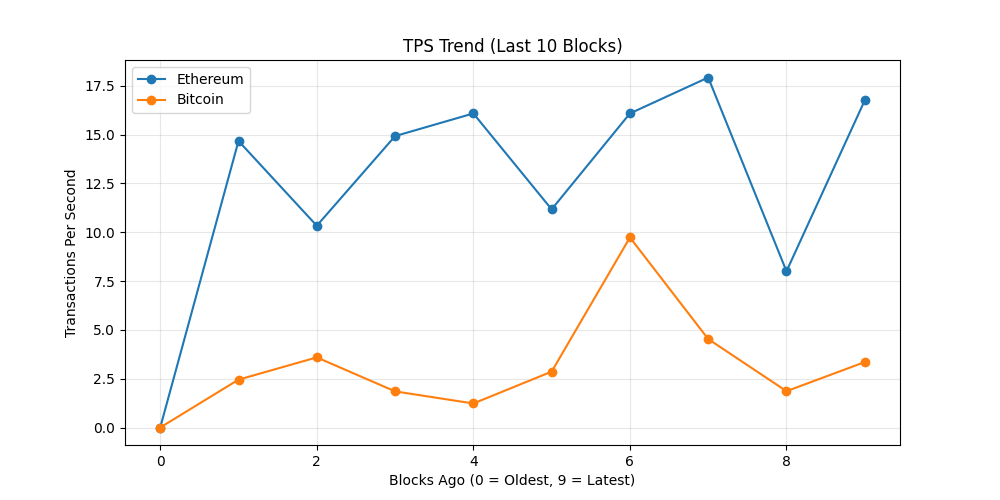
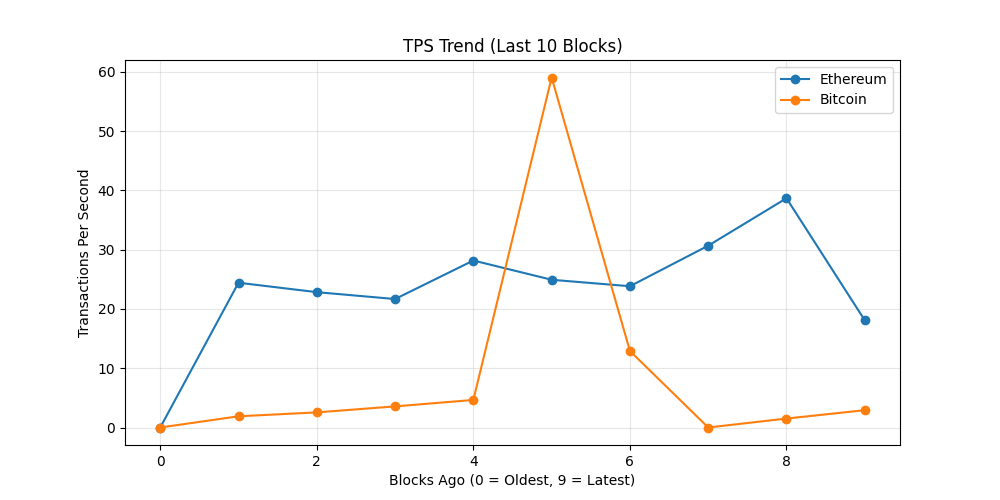
chore: update on-chain dashboard

diff --git a/README.md b/README.md
@@ -19,7 +19,7 @@ The README itself acts as the dashboard and is regenerated automatically on a 6 
 demonstrating a production-style, infrastructure-focused observability workflow rather
 than a traditional UI-driven approach.
 
-_Last updated: 2026-11-02 05:58 UTC_
+_Last updated: 2026-11-02 15:46 UTC_
 
 ## API Usage (GetBlock.io)
 - Calls used: **24**
@@ -27,8 +27,8 @@ _Last updated: 2026-11-02 05:58 UTC_
 ## Network Metrics
 | Chain | Block Height | TX Count | TPS (10 blk avg) | Block Util | Avg Fee |
 |------|-------------|----------|------------------|------------|---------|
-| Ethereum | 26325150 | 201 | 16.75 | 48.06% | 0.0 Gwei |
-| Bitcoin | 974216 | 2551 | 3.35 | 99.8% | N/A |
+| Ethereum | 26328078 | 217 | 18.08 | 55.93% | 0.3 Gwei |
+| Bitcoin | 974271 | 3623 | 2.92 | 99.8% | N/A |
 
 ## Visuals
 ### Transactions Trend
@@ -43,11 +43,11 @@ _Last updated: 2026-11-02 05:58 UTC_
 ## Whale Alerts (latest block)
 - Transaction hashes are truncated for readability.
 - Full hashes are available in `dashboards/metrics.json`
-- Bitcoin | 133.16 BTC | `c907408cbc12…`
-- Bitcoin | 111.09 BTC | `26557e1e1175…`
-- Bitcoin | 227.98 BTC | `b6faf5995481…`
-- Bitcoin | 214.19 BTC | `1769e9b6ae92…`
-- Bitcoin | 111.22 BTC | `64ab7fa66393…`
+- Bitcoin | 121.65 BTC | `0eb5fc80980c…`
+- Bitcoin | 122.94 BTC | `d9ca302f8cf5…`
+- Bitcoin | 2213.16 BTC | `7a147277d18e…`
+- Bitcoin | 2211.46 BTC | `48a807ad44a3…`
+- Bitcoin | 101.02 BTC | `9d70b951b0ad…`
 
 ## Run locally
 
